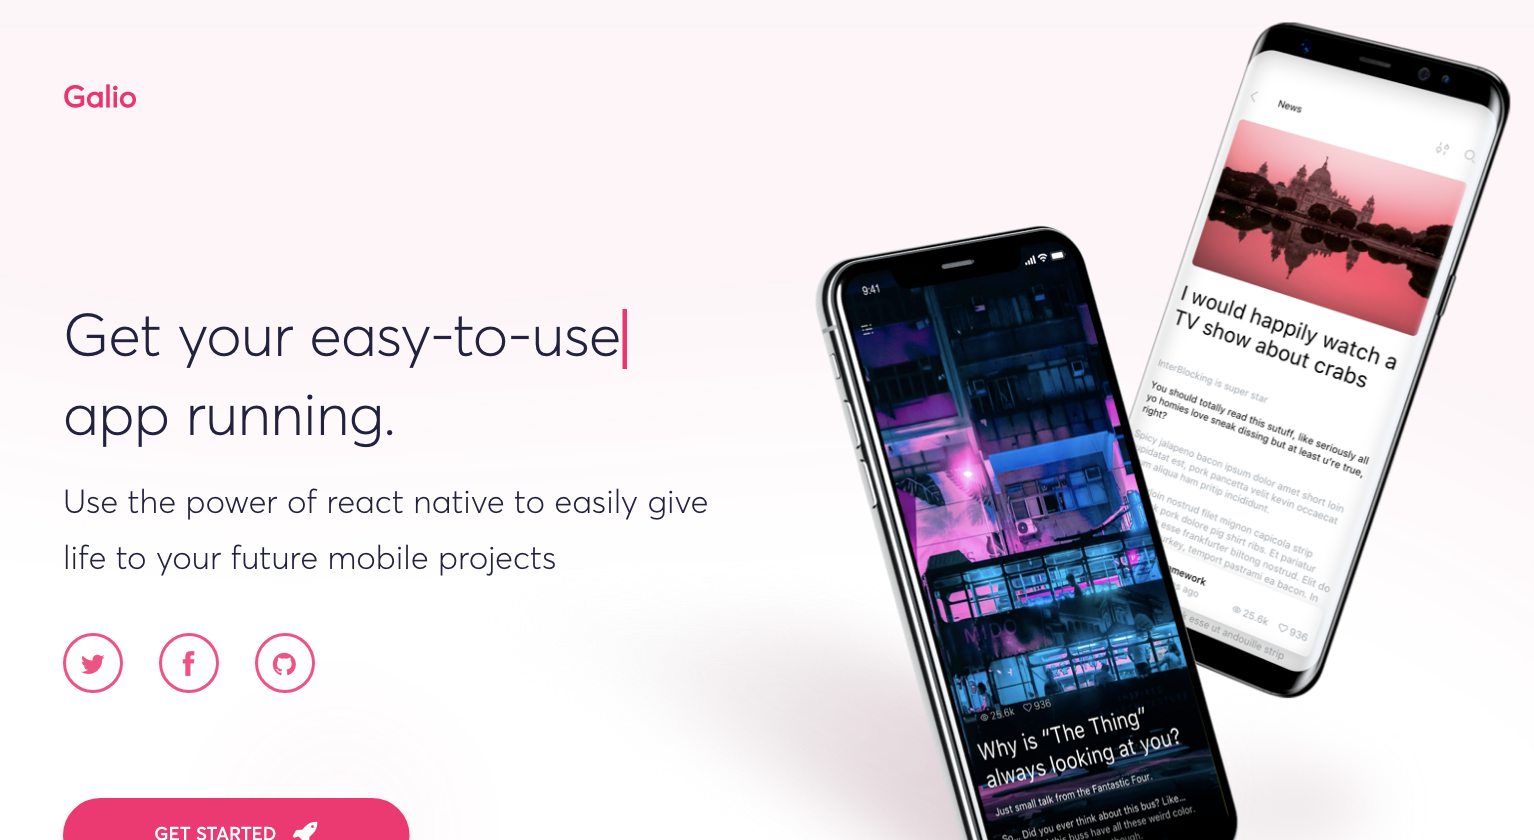
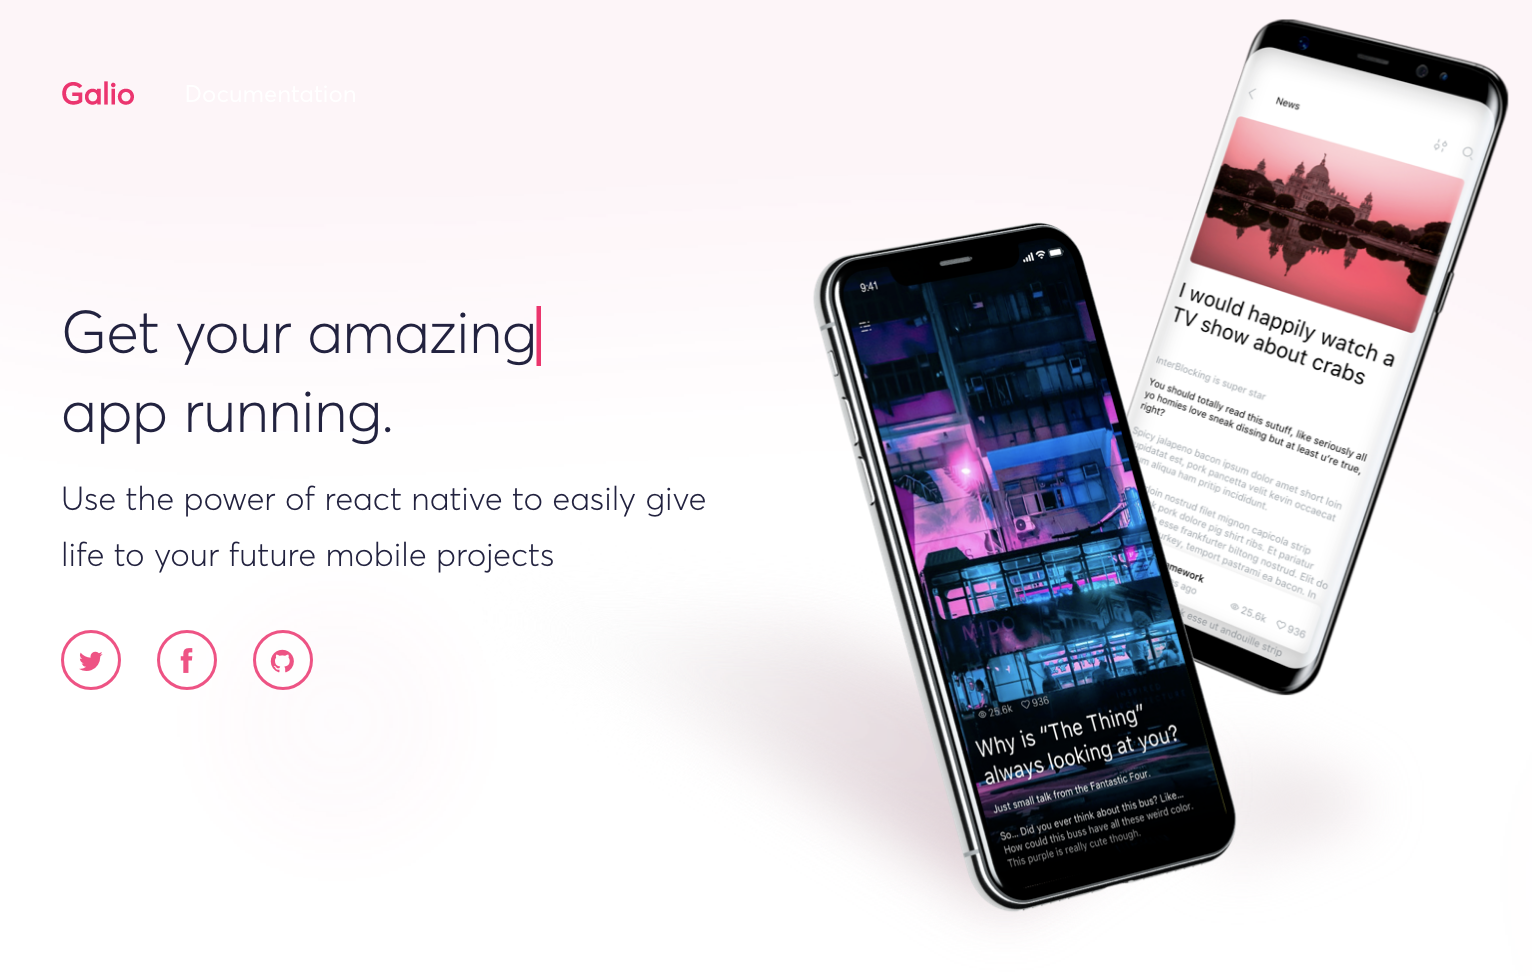
index page changes

diff --git a/_includes/sections/community.html b/_includes/sections/community.html
@@ -7,6 +7,61 @@
          licensed under MIT. It will always remain free to use,
          powered by a huge international community.
       </p>
+
+      <h3 class="title"> Contributors </h3>
+      <p class="desc">
+        This project exists thanks to all the people who contribute.
+      </p>
+      <a href="https://github.com/galio-org/galio/graphs/contributors" target="_blank">
+        <img src="https://camo.githubusercontent.com/8631a4ad9878b656d57280075a5b452c656abfc7/68747470733a2f2f6f70656e636f6c6c6563746976652e636f6d2f67616c696f2f636f6e7472696275746f72732e7376673f77696474683d38393026627574746f6e3d66616c7365" data-canonical-src="https://opencollective.com/galio/contributors.svg?width=890&amp;button=false" style="max-width:100%;">
+      </a>
+      <div class="col-md-10 col-md-offset-1 text-center">
+        <h2 class="title"> Become a part of the Galio community. </h2>
+      </div>
+
+      <div class="col-md-4">
+          <div class="info">
+            <a href="https://twitter.com/galioframework" target="_blank">
+
+            <div class="icon icon-rose">
+                <i class="fa fa-twitter"></i>
+            </div>
+            <div class="description">
+                <h4> Twitter </h4>
+                <p>Follow us on Twitter and be the first to receive news and updates. We are open for your feedback and questions.</p>
+            </div>
+          </a>
+         </div>
+
+      </div>
+
+      <div class="col-md-4">
+        <div class="info">
+          <a href="https://github.com/galio-org/galio" target="_blank">
+            <div class="icon icon-rose">
+                <i class="fa fa-github"></i>
+            </div>
+            <div class="description">
+                <h4> Contribute on GitHub </h4>
+                <p>You want to take part in the development? Fork Galio on GitHub and send us a pull request. To report a bug, file a new issue.</p>
+            </div>
+          </a>
+       </div>
+      </div>
+
+      <div class="col-md-4">
+        <div class="info">
+          <a href="https://gitter.im/galio-community" target="_blank">
+            <div class="icon icon-rose">
+                <i class="fa fa-comments"></i>
+            </div>
+            <div class="description">
+                <h4> Galio Community </h4>
+                <p>If you're interested in discussing, participating and helping each other, the Galio community is the place to be.</p>
+            </div>
+          </a>
+       </div>
+      </div>
     </div>
   </div>
 </div>

diff --git a/_sass/galio/_general.scss b/_sass/galio/_general.scss
@@ -1040,6 +1040,9 @@ a[rel="tooltip"]{
 .footer{
   padding: 20px 0 15px;
   margin-top: -2px;
+  .buttons{
+    margin-top: 0;
+  }
 }
 
 .footer.footer-black{
@@ -1294,6 +1297,7 @@ a[rel="tooltip"]{
   }
 
   .section-header{
+      background: linear-gradient(to bottom, #ffc3d9 0%, white 100%);
     img{
       margin-top: 40px;
     }
@@ -1301,9 +1305,14 @@ a[rel="tooltip"]{
       margin-top: 20px;
     }
 
-    .github-buttons{
-      margin-top: 50px;
+    .btn{
+      &:hover,
+      &:active,
+      &:focus{
+        color: #ea3e73;
+      }
     }
+
   }
   .btn-rose{
     margin-top: 20px;
@@ -1318,6 +1327,47 @@ a[rel="tooltip"]{
   .buttons{
     margin-top: 40px;
   }
+
+  .footer{
+    .buttons{
+      margin-top: 0;
+      .btn{
+        &:hover,
+        &:active,
+        &:focus{
+          color: #d94a72;
+        }
+      }
+    }
+  }
+
+  .gitter-chat-embed{
+    z-index: 9999;
+  }
+
+  .gitter-open-chat-button{
+    background: #FF147C;
+  }
+
+  .section-community{
+    .info{
+      a{
+        color: #333333;
+      }
+      .icon{
+        background: #e94072;
+        i{
+          margin-top: 9px;
+        }
+      }
+    }
+
+    h2.title{
+      margin-top: 100px;
+      margin-bottom: 80px;
+    }
+  }
+
 }
 
 //added for the modified index page
@@ -1365,6 +1415,9 @@ a[rel="tooltip"]{
   }
   img{
     width: 100%;
+  }
+  a{
+    color: #333333;
   }
   }
 }

diff --git a/_includes/header.html b/_includes/header.html
@@ -17,9 +17,20 @@
         <span class="icon-bar bar2"></span>
         <span class="icon-bar bar3"></span>
       </button>
-      <a class="navbar-brand" href="javascript:void;">
+      <a class="navbar-brand" href="/">
         Galio
       </a>
+      {% if page.brand == 'index-page' %}
+
+      <ul class="nav navbar-nav navbar-right">
+        <li>
+            <a href="{{ site.docs_url }}" target="_blank">
+                Documentation
+            </a>
+        </li>
+      </ul>
+      
+      {% endif %}
     </div>
 
     <!-- Collect the nav links, forms, and other content for toggling -->
@@ -33,11 +44,15 @@
                   </a>
               </li>
               <li>
-                  <a href="presentation.html" target="_blank">
+                  <a href="presentation" target="_blank">
                        Presentation
                   </a>
               </li>
-
+              <li>
+                  <a href="https://github.com/galio-org/galio" target="_blank" data-toggle="tooltip" data-placement="bottom" title="Github repo">
+                       <i class="fa fa-github"></i>
+                  </a>
+              </li>
          </ul>
 
       </div><!-- /.navbar-collapse -->

diff --git a/_includes/footer.html b/_includes/footer.html
@@ -1,6 +1,8 @@
+
 <footer class="footer footer-black">
   <div class="container">
     <div class="row">
+      {% if page.brand == 'presentation-page' %}
       <div class="col-sm-3">
         <p><i class="fa fa-envelope"></i>hello@galio.io</p>
       </div>
@@ -12,6 +14,26 @@
       <div class="col-sm-3">
         <p>Follow us<a href="{{ site.github_url }}" target="_blank"><i class="fa fa-github social"></i></p>
         </div>
+        {% elsif page.brand == 'index-page' %}
+        <div class="col-md-8 col-md-offset-2 text-center">
+          <div class="buttons">
+            <a href="https://github.com/galio-org/galio" target="_blank" class="btn btn-simple">
+              Github
+            </a>
+            <a href="https://github.com/galio-org/galio/issues" target="_blank" class="btn btn-simple">
+              Issues
+            </a>
+            <a href="https://galio.io/docs/#/install" target="_blank" class="btn btn-simple">
+              Documentation
+            </a>
+            <a class="btn btn-simple">
+              Version 0.5
+            </a>
+
+          </div>
+        </div>
+
+        {% endif %}
       </div>
     </div>
   </footer>

diff --git a/_includes/sections/header.html b/_includes/sections/header.html
@@ -56,21 +56,25 @@
         life to your future mobile projects.
       </h4>
       <div class="buttons">
-        <a href="https://galio.io/docs/#/install" target="_blank" class="btn btn-simple">
+        <a href="https://github.com/galio-org/galio" target="_blank" class="btn btn-simple">
           Github
         </a>
         <a href="https://galio.io/docs/#/install" target="_blank" class="btn btn-simple">
           Documentation
         </a>
         <a class="btn btn-simple">
-          Version 1.0.1
+          Version 0.5
         </a>
+
       </div>
 
       <br>
       <div class="github-buttons">
         <a class="github-button" href="{{ site.github_url }}" data-icon="octicon-star" data-show-count="true" aria-label="Star galio-org/galio on GitHub">Star</a>
         <a class="github-button" href="{{ site.github_url }}/fork" data-icon="octicon-repo-forked" data-show-count="true" aria-label="Fork galio-org/galio on GitHub">Fork</a>
+        <a class="twitter-follow-button"
+          href="https://twitter.com/galioframework" data-show-count="true" data-show-screen-name="false" target="_blank">
+        Follow</a>
       </div>
     </div>
 

diff --git a/_layouts/default.html b/_layouts/default.html
@@ -95,5 +95,30 @@ layout: compress
 	<script src="js/jquery.sharrre.min.js"></script>
 
   <script src="js/galio.js"></script>
+  {% if page.brand == 'index-page' %}
+
+    <script>window.twttr = (function(d, s, id) {
+        var js, fjs = d.getElementsByTagName(s)[0],
+          t = window.twttr || {};
+        if (d.getElementById(id)) return t;
+        js = d.createElement(s);
+        js.id = id;
+        js.src = "https://platform.twitter.com/widgets.js";
+        fjs.parentNode.insertBefore(js, fjs);
+
+        t._e = [];
+        t.ready = function(f) {
+          t._e.push(f);
+        };
+
+        return t;
+      }(document, "script", "twitter-wjs"));</script>
+      <script>
+      ((window.gitter = {}).chat = {}).options = {
+        room: 'galio-community/Lobby'
+      };
+      </script>
+    <script src="https://sidecar.gitter.im/dist/sidecar.v1.js" async defer></script>
+    {% endif %}
 </body>
 </html>

diff --git a/_includes/sections/informations.html b/_includes/sections/informations.html
@@ -5,7 +5,12 @@
         <div class="info">
 
           <div class="description">
-              <h4> <i class="fa fa-download"></i> Installation </h4>
+              <a href="https://galio.io/docs/#/install" target="_blank">
+                <h4>
+                  <i class="fa fa-download"></i>
+                  Installation
+                </h4>
+              </a>
               <p class="text-muted">
                 Just add it as an npm/yarn dependency:
               </p>
@@ -75,7 +80,7 @@
                 <p class="text-muted">
                   Find out more about Galio in our presentation page.
                 </p>
-              <a href="presentation.html">
+              <a href="presentation">
                 <img src="assets/img/presentation.png">
               </a>
 
